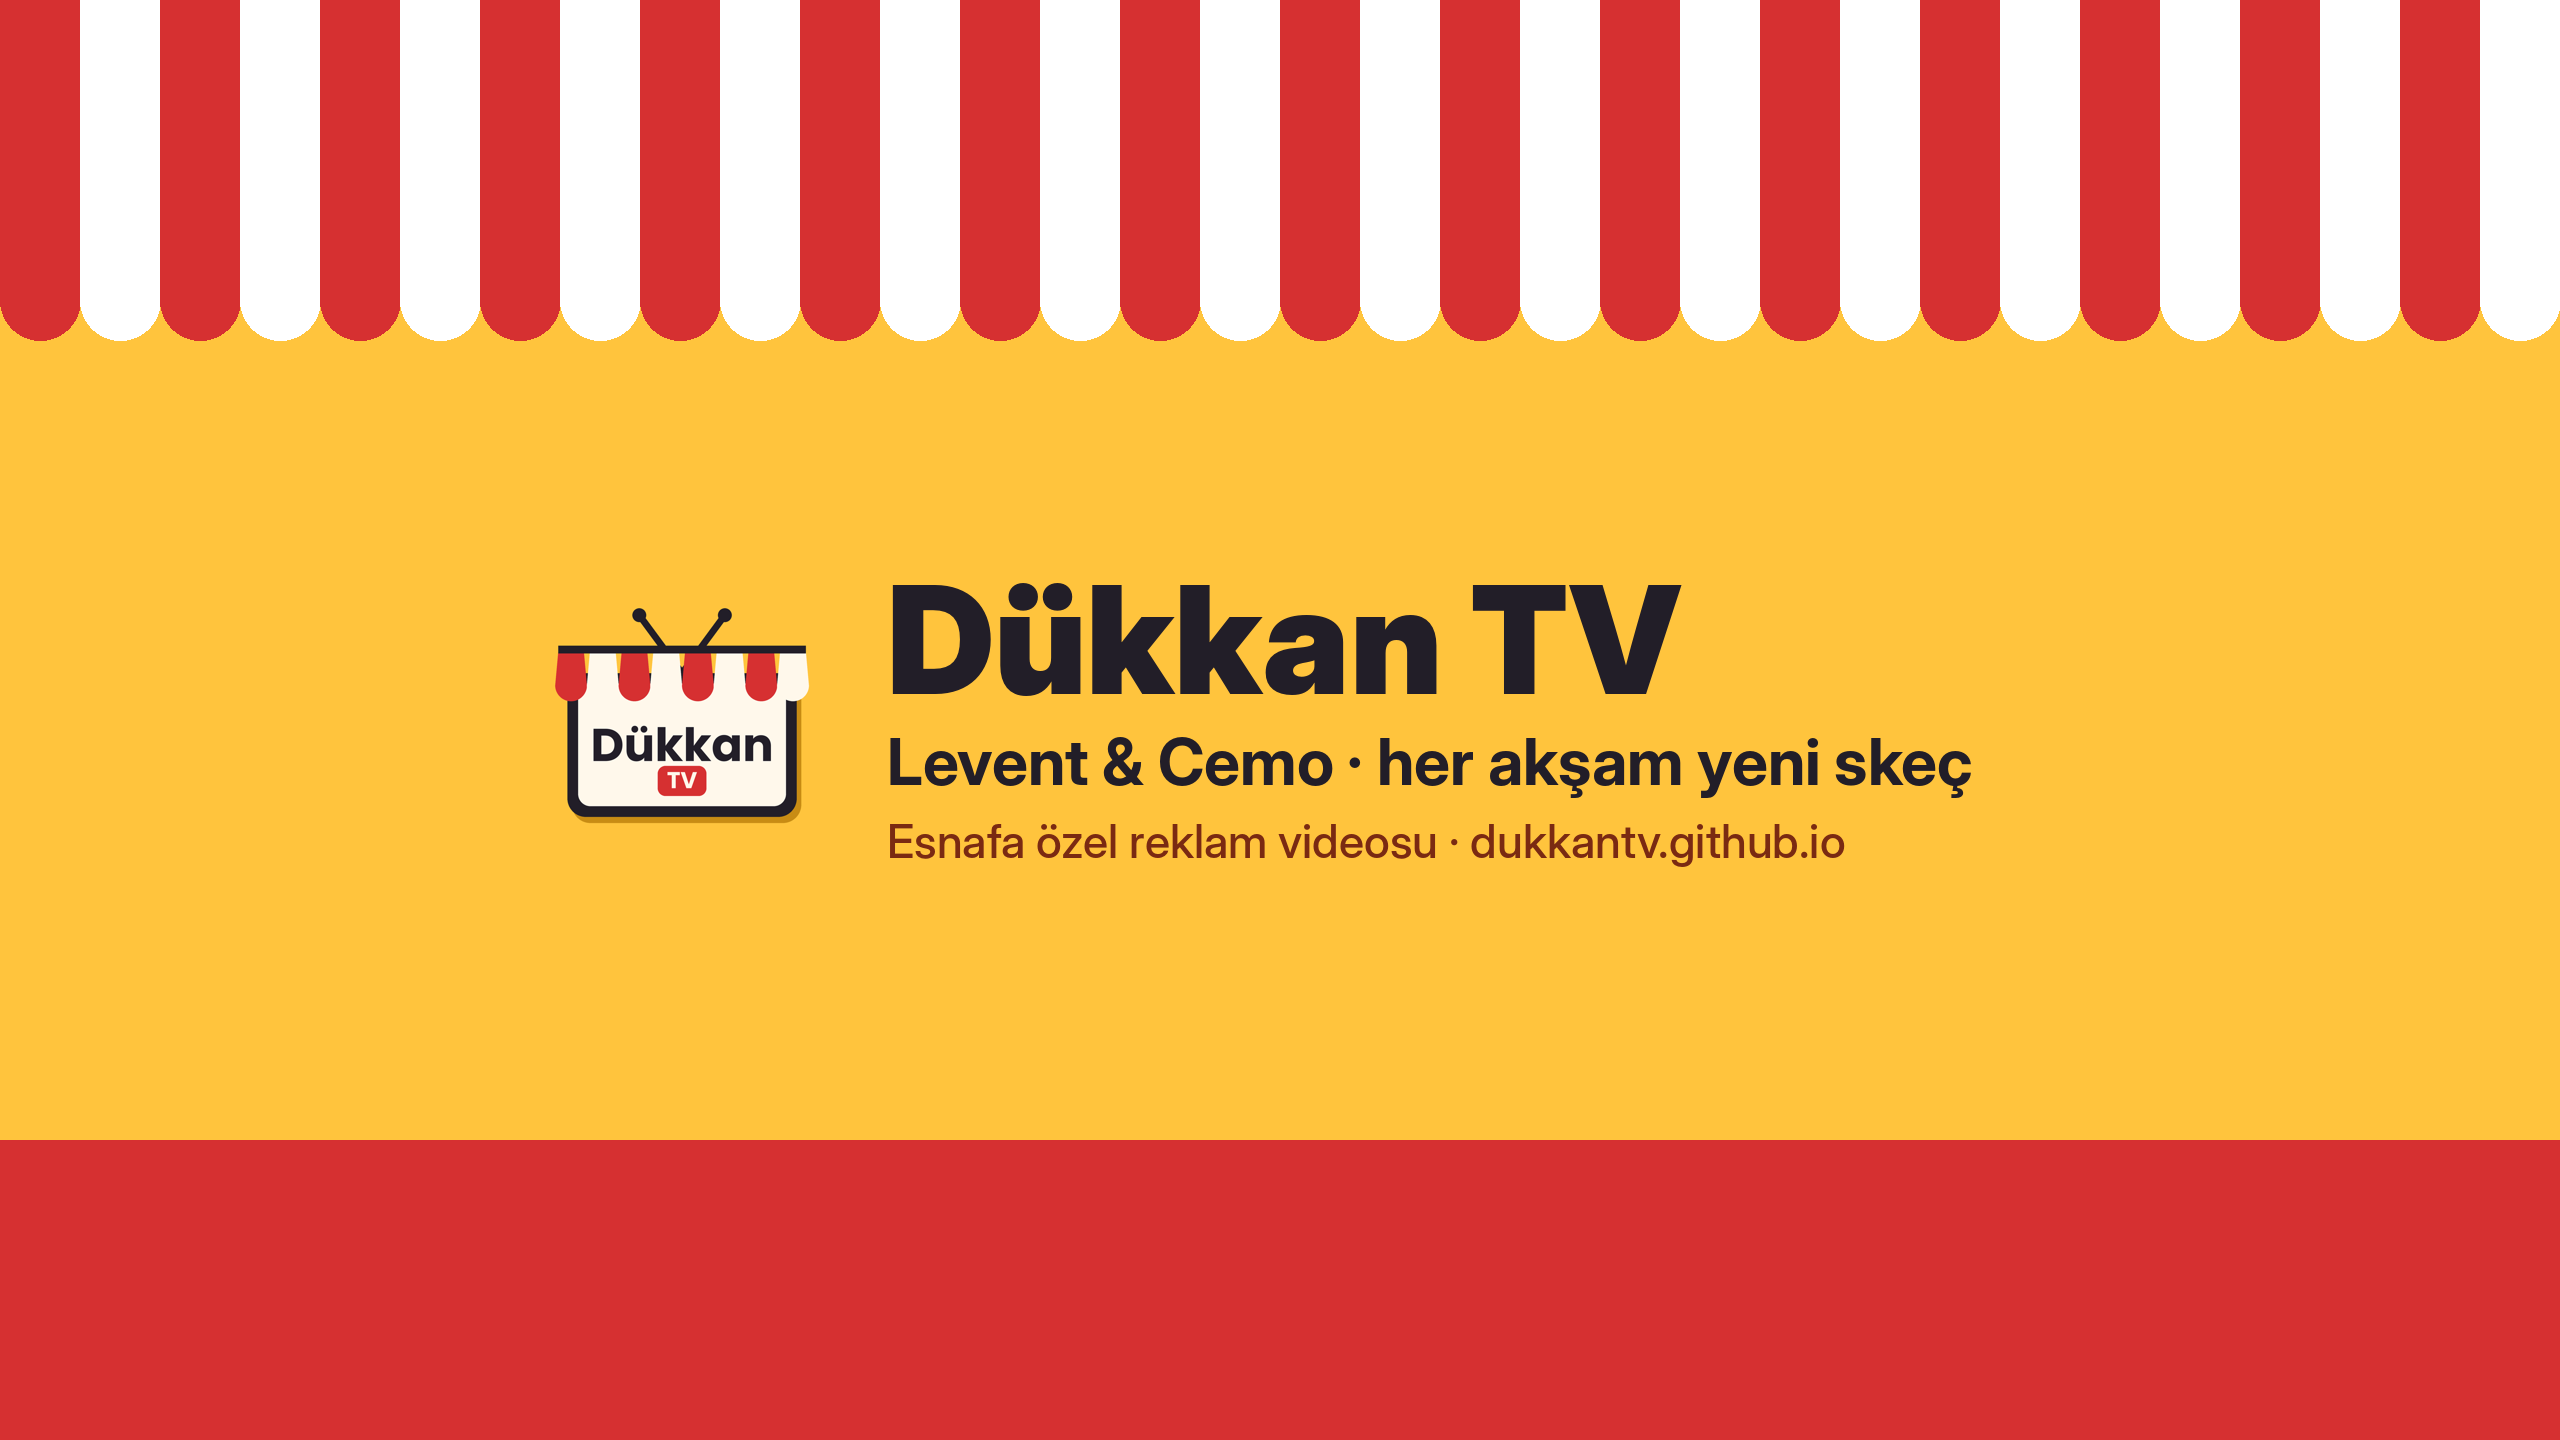
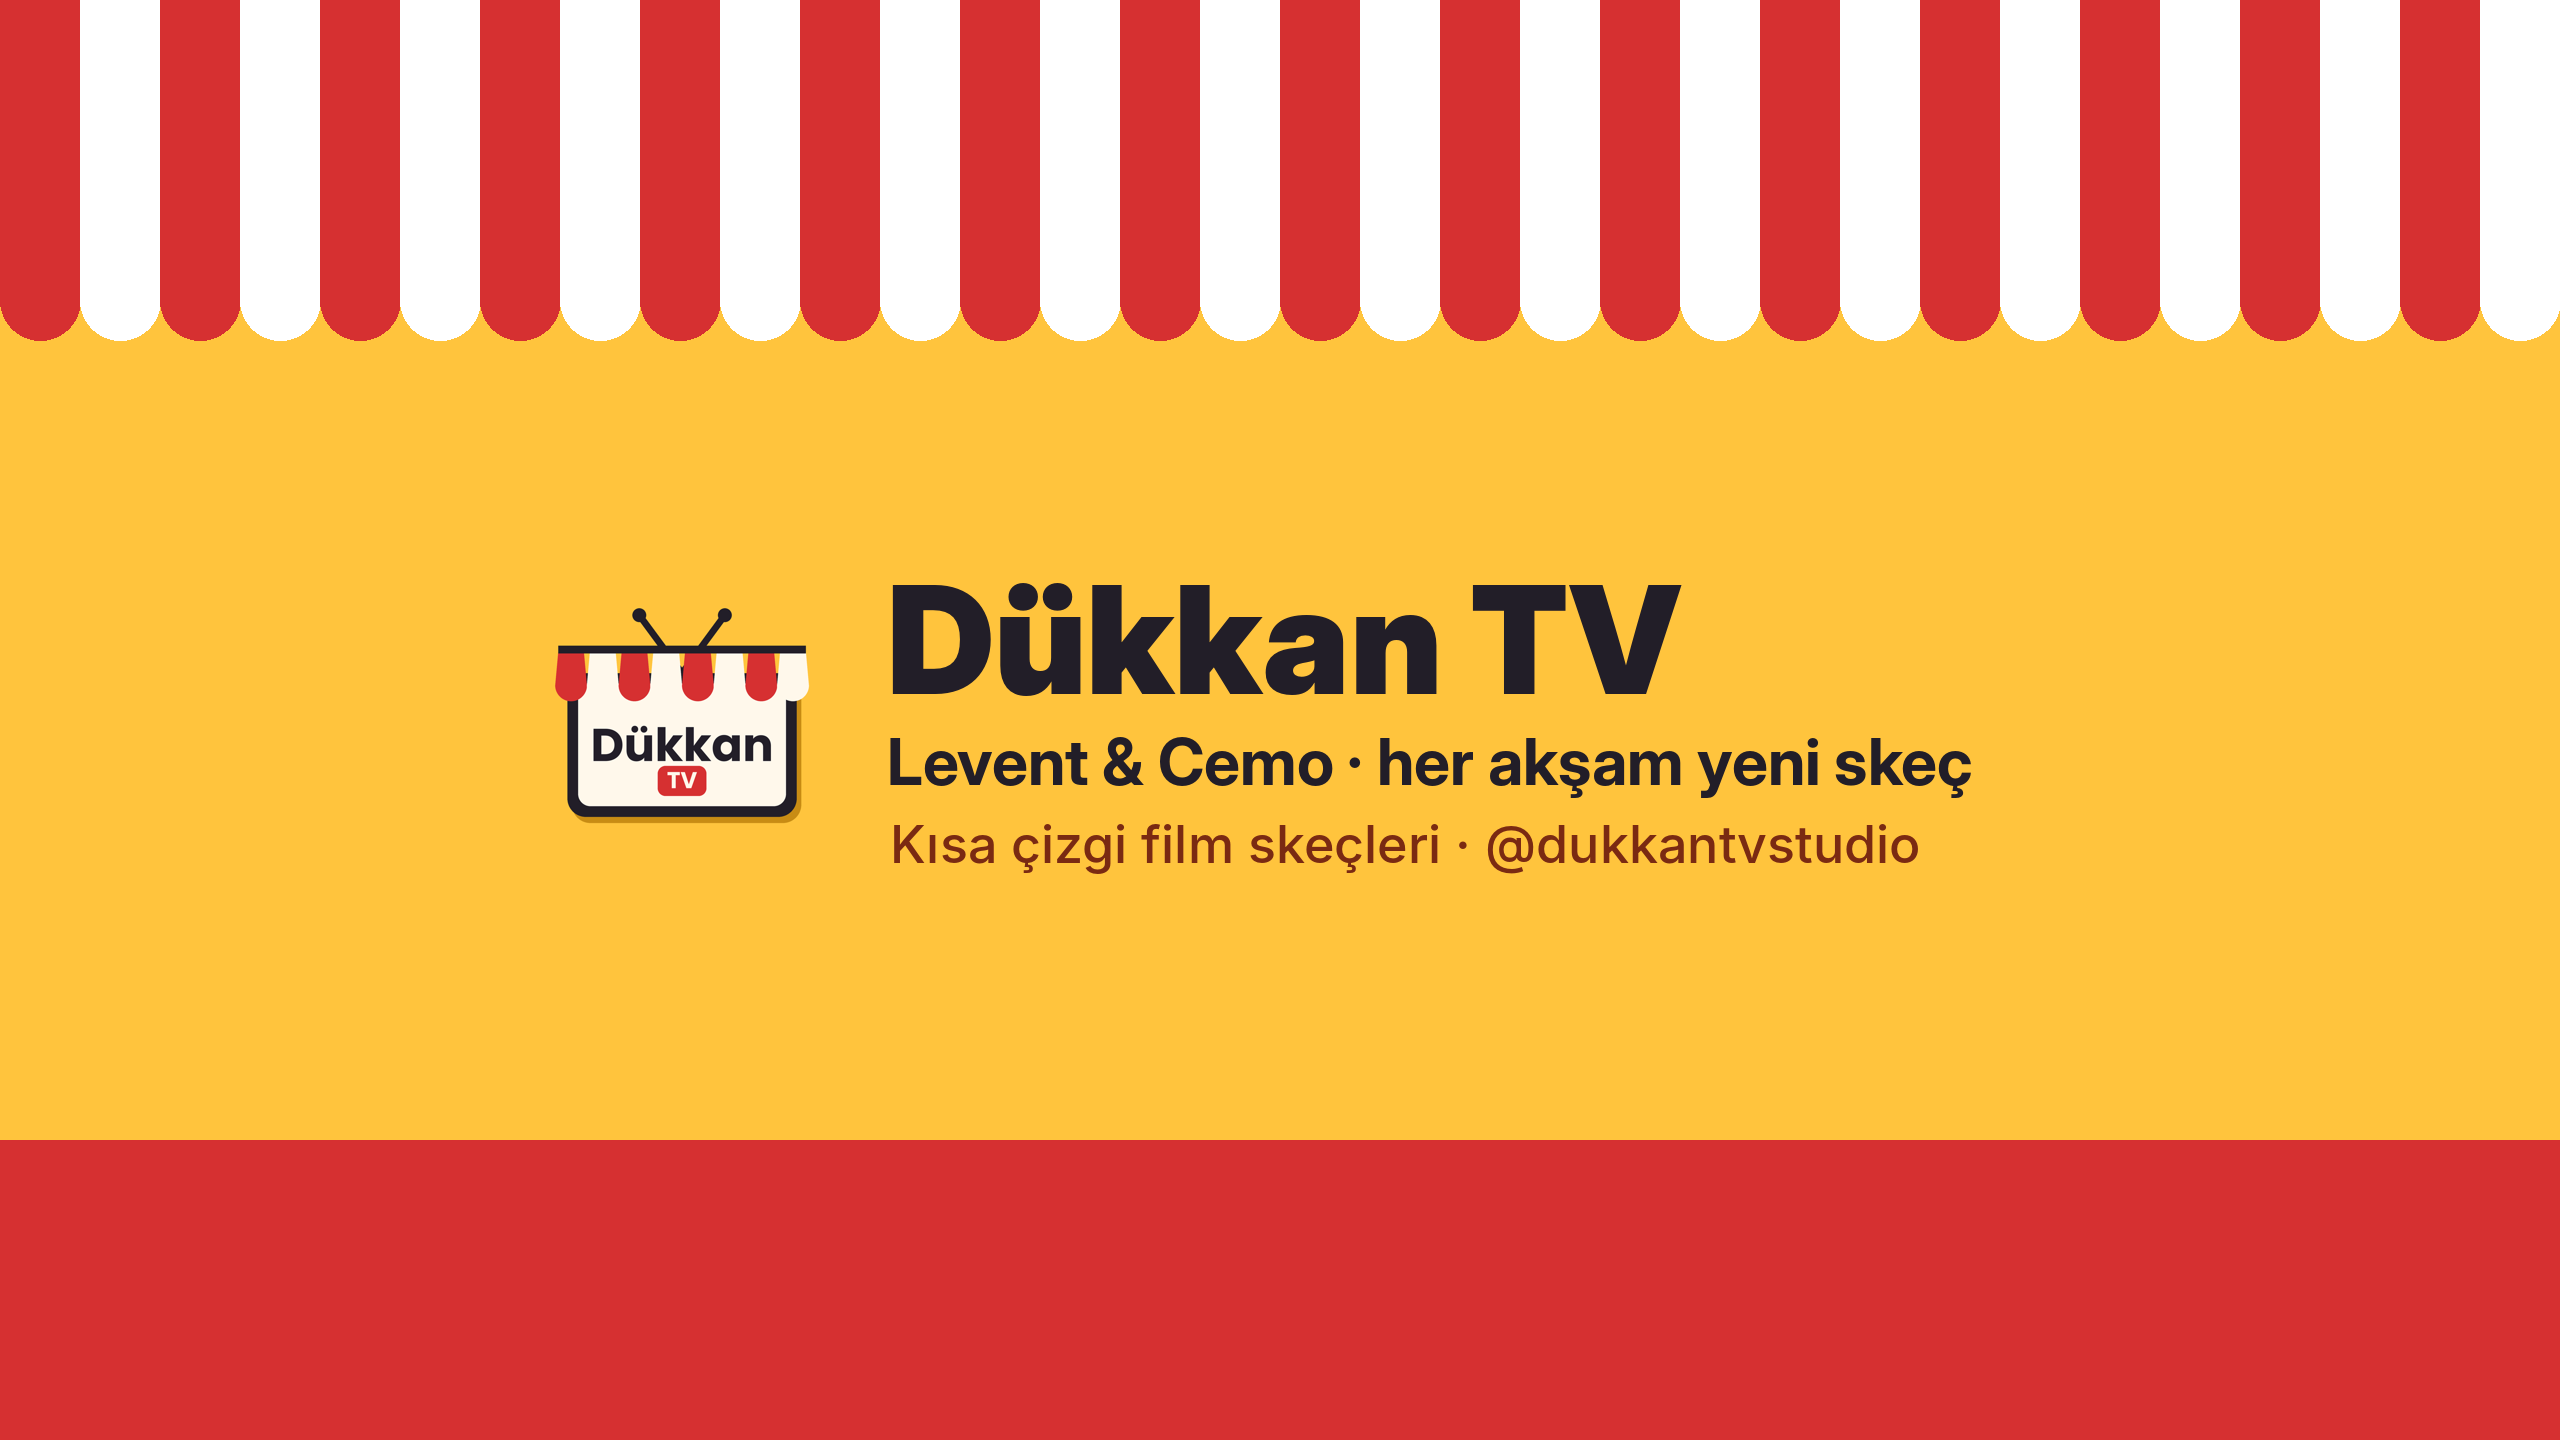
Profesyonel profil: Dükkan TV bannerı güncellendi, Facebook kapak+web sitesi komutu, esnaf listesi adı
Claude-Session: https://claude.ai/code/session_01GRiijzfZyG4c5b3qbpgSoR

Changed region(s): [[0.3438, 0.5625, 0.75, 0.625]]

diff --git a/kanal_ayar.py b/kanal_ayar.py
@@ -190,5 +190,58 @@ def banner():
         print(kanal, "banner ayarlandı" if kod == 200 else f"HATA {kod} {str(v2)[:300]}")
 
 
+FB_WEB = {"dukkantv": "https://dukkantv.github.io/",
+          "dramabite": "https://www.youtube.com/@dramabitetr",
+          "kasakurgu": "https://www.youtube.com/@kasakurgu"}
+
+
+def facebook():
+    """Facebook sayfalarına web sitesi linki ve kapak fotoğrafı (bannerlar/fb_<kanal>.jpg) koyar."""
+    import subprocess
+    from ig_ortak import API, ig_hesap
+    for kanal, web in FB_WEB.items():
+        h = ig_hesap(kanal)
+        pid = h and (h.get("sayfa_id") or h.get("page_id"))
+        if not pid:
+            print(kanal, "Facebook sayfası bilgisi yok")
+            continue
+        tok = h["token"]
+        kod, _, v = istek(f"{API}/{pid}", veri={"website": web, "access_token": tok})
+        print(kanal, "web sitesi:", "tamam" if kod == 200 else f"HATA {kod} {str(v)[:250]}")
+        yol = os.path.join(KOK, "bannerlar", f"fb_{kanal}.jpg")
+        if not os.path.exists(yol):
+            continue
+        r = subprocess.run(["curl", "-sS", "-F", f"source=@{yol}", "-F", "published=false",
+                            "-F", f"access_token={tok}", f"{API}/{pid}/photos"], capture_output=True, text=True)
+        try:
+            foto = json.loads(r.stdout).get("id")
+        except Exception:
+            foto = None
+        if not foto:
+            print(kanal, "kapak yüklenemedi:", (r.stdout or r.stderr)[:250])
+            continue
+        kod, _, v = istek(f"{API}/{pid}", veri={"cover": foto, "access_token": tok})
+        print(kanal, "kapak fotoğrafı:", "tamam" if kod == 200 else f"HATA {kod} {str(v)[:250]}")
+
+
+def liste_adi(kanal, eski, yeni):
+    for p in yt_get(kanal, "playlists?part=snippet&mine=true&maxResults=50").get("items", []):
+        if p["snippet"]["title"] == eski:
+            sn = p["snippet"]
+            sn["title"] = yeni
+            kod, _, v = istek(f"{YT}/playlists?part=snippet", method="PUT",
+                              headers={"Authorization": f"Bearer {erisim_anahtari(kanal)}"},
+                              json_govde={"id": p["id"], "snippet": {"title": yeni, "description": sn.get("description", "")}})
+            print(kanal, "liste adı:", eski, "→", yeni, "tamam" if kod == 200 else f"HATA {kod} {str(v)[:200]}")
+
+
+def profil():
+    """Kasım 2026 profesyonel profil düzenlemesi: bannerlar + Facebook + liste adı."""
+    banner()
+    facebook()
+    liste_adi("dukkantv", "Esnaf Reklamları 🏪", "Esnaf Videoları 🏪")
+
+
 if __name__ == "__main__":
-    {"denetle": denetle, "guncelle": guncelle, "listeler": listeler, "banner": banner}[sys.argv[1]]()
+    {"denetle": denetle, "guncelle": guncelle, "listeler": listeler, "banner": banner,
+     "facebook": facebook, "profil": profil}[sys.argv[1]]()
